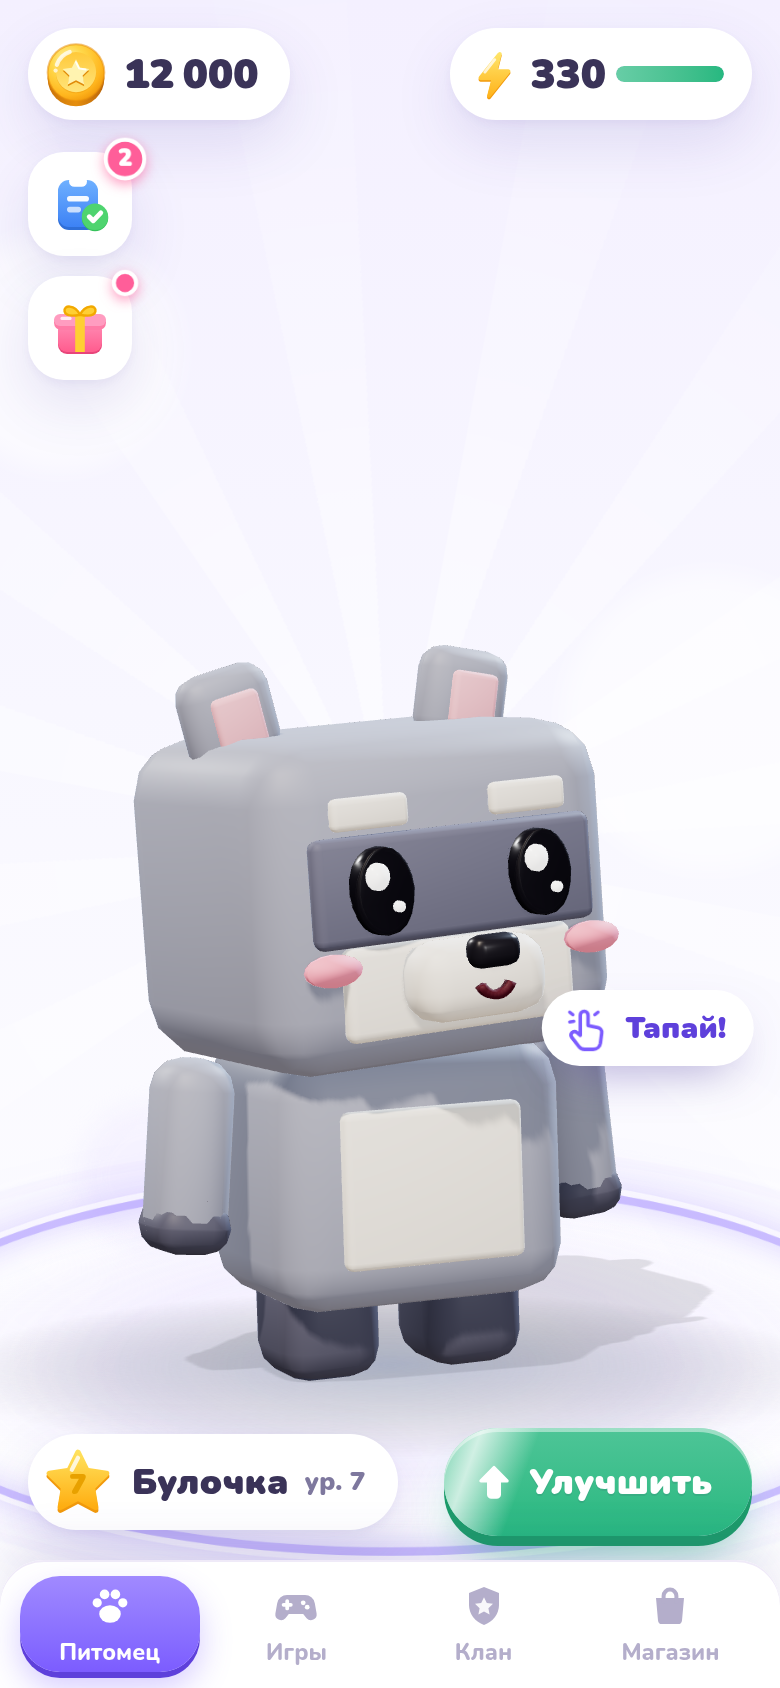
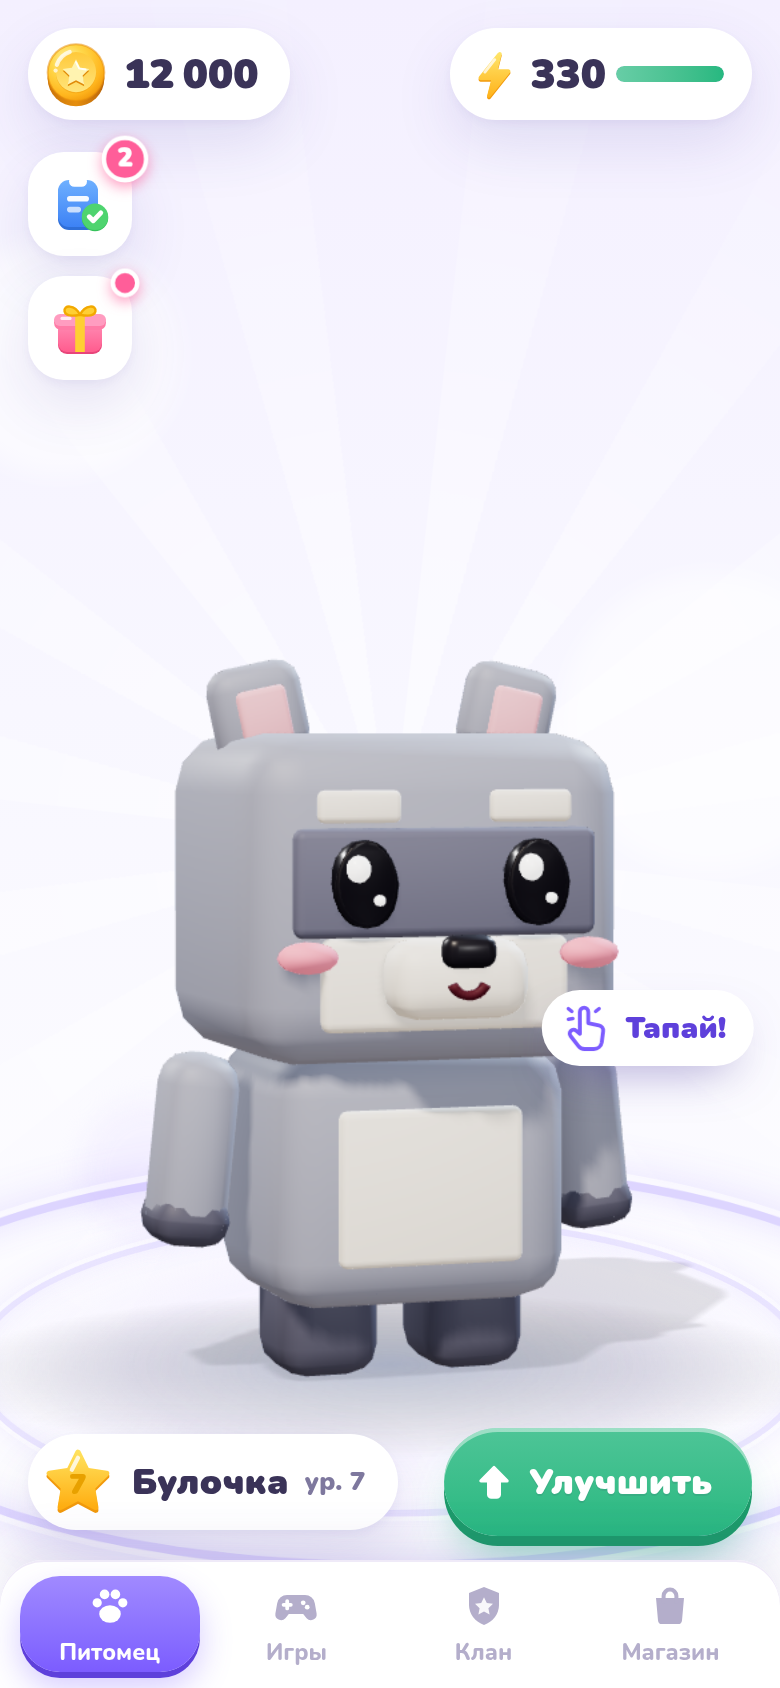
Replace the pet jump and floor ripple with a cheap CSS squash
Freeze the 3D pose, render on demand at a 1.5 DPR cap, and retrigger a single 120ms scale bounce on tap. Coin pool is unchanged.

diff --git a/tapyshi-concept/pet/stage.js b/tapyshi-concept/pet/stage.js
@@ -1,5 +1,5 @@
-// Тапыши v3 · крупный серый енот на прозрачном холсте (фон — CSS)
-import { THREE, makeRenderer, loadRaccoon, blob, shockRing } from './kit.js';
+// Тапыши · енот на холсте. Тап не крутит 3D: только CSS-squash обёртки, рендер по запросу.
+import { THREE, makeRenderer, loadRaccoon, blob } from './kit.js';
 export { THREE };
 export async function petStage({ canvas, f = .48, cy = .5, cx = .5, yaw = .32, hop = .22, onTap, onHover }) {
   const R = makeRenderer(canvas, { exposure: 1.0, alpha: true }); R.setClearColor(0, 0);
@@ -7,17 +7,16 @@ export async function petStage({ canvas, f = .48, cy = .5, cx = .5, yaw = .32, h
   const cam = new THREE.PerspectiveCamera(28, 1, .05, 50);
   scene.add(new THREE.HemisphereLight('#EAF4FF', '#FFF2E6', 1.35));
   const key = new THREE.DirectionalLight('#FFF1DE', 2.5); key.position.set(-1.2, 4.2, 3.6); key.castShadow = true;
-  key.shadow.mapSize.set(1024, 1024); key.shadow.radius = 8; key.shadow.bias = -.0006; key.shadow.normalBias = .02;
+  key.shadow.mapSize.set(512, 512); key.shadow.radius = 6; key.shadow.bias = -.0006; key.shadow.normalBias = .02;
   Object.assign(key.shadow.camera, { left: -1.5, right: 1.5, top: 2, bottom: -1, near: .5, far: 12 }); scene.add(key);
   const rim = new THREE.DirectionalLight('#CFE6FF', 3.2); rim.position.set(2.4, 2.6, -3); scene.add(rim);
   const rim2 = new THREE.DirectionalLight('#FFFFFF', 1.2); rim2.position.set(-2.6, 1.8, -2.4); scene.add(rim2);
   const fill = new THREE.DirectionalLight('#FFFFFF', .6); fill.position.set(2, 1, 3); scene.add(fill);
-  // тень-ловушка на прозрачном «полу»
   const floor = new THREE.Mesh(new THREE.PlaneGeometry(6, 6), new THREE.ShadowMaterial({ opacity: .1 }));
   floor.rotation.x = -Math.PI / 2; floor.receiveShadow = true; scene.add(floor);
   const soft = blob('rgba(50,70,130,.32)', 1.25); soft.position.y = .002; scene.add(soft);
   const pet = await loadRaccoon('models/', { keepMaterials: true });
-  pet.root.rotation.y = yaw; pet.hopH = hop; scene.add(pet.root);
+  pet.root.rotation.y = yaw; pet.hopH = hop; pet.rest(); scene.add(pet.root);
   pet.hit.scale.set(1.35, 1.25, 1.5);
   function place() {
     const w = canvas.clientWidth, h = canvas.clientHeight, a = w / h;
@@ -26,21 +25,53 @@ export async function petStage({ canvas, f = .48, cy = .5, cx = .5, yaw = .32, h
     cam.position.set(lx, ly + .16, d); cam.lookAt(lx, ly, 0);
     R.setSize(w, h, false); cam.aspect = a; cam.updateProjectionMatrix();
   }
-  place(); addEventListener('resize', place);
+  place();
   const v = new THREE.Vector3();
   const toScreen = (x, y, z) => { v.set(x, y, z).project(cam); const r = canvas.getBoundingClientRect(); return { x: r.left + (v.x * .5 + .5) * r.width, y: r.top + (-v.y * .5 + .5) * r.height }; };
   const headTop = () => toScreen(0, 1.1, 0);
   window.__petScreen = () => toScreen(0, .6, 0);
-  // взгляд за пальцем и тапы
-  const ray = new THREE.Raycaster(), p2 = new THREE.Vector2();
-  function look(e) { const c = toScreen(0, .75, 0); pet.setLook((e.clientX - c.x) / 140, (e.clientY - c.y) / 200); }
-  canvas.addEventListener('pointermove', look);
-  canvas.addEventListener('pointerdown', e => {
-    look(e); const r = canvas.getBoundingClientRect(); p2.set((e.clientX - r.left) / r.width * 2 - 1, -(e.clientY - r.top) / r.height * 2 + 1);
-    ray.setFromCamera(p2, cam);
-    if (ray.intersectObject(pet.hit).length && onTap && onTap(e) !== false) { pet.tap(); shockRing(scene, new THREE.Vector3(0, 0, 0), '#FFFFFF'); }
+
+  const hooks = [];
+  let raf = 0;
+  function draw() {
+    raf = 0;
+    hooks.forEach(h => h(0));
+    R.render(scene, cam);
+  }
+  function requestDraw() {
+    if (!raf) raf = requestAnimationFrame(draw);
+  }
+  // один-два кадра для тени, дальше карта теней заморожена и цикл стоит
+  R.shadowMap.needsUpdate = true;
+  R.render(scene, cam);
+  R.shadowMap.autoUpdate = false;
+  requestDraw();
+
+  addEventListener('resize', () => {
+    place();
+    R.shadowMap.autoUpdate = true;
+    R.shadowMap.needsUpdate = true;
+    requestDraw();
+    requestAnimationFrame(() => { R.shadowMap.autoUpdate = false; });
   });
-  const clock = new THREE.Clock(); const hooks = [];
-  (function frame() { const dt = Math.min(.05, clock.getDelta()); pet.update(dt); hooks.forEach(h => h(dt)); R.render(scene, cam); requestAnimationFrame(frame); })();
-  return { pet, cam, toScreen, headTop, onFrame: h => hooks.push(h) };
+
+  const wrap = canvas.closest('.pet-wrap') || canvas;
+  function bounce() {
+    wrap.classList.remove('is-bounce');
+    void wrap.offsetWidth;
+    wrap.classList.add('is-bounce');
+  }
+  wrap.addEventListener('animationend', e => {
+    if (e.animationName === 'pet-bounce') wrap.classList.remove('is-bounce');
+  });
+
+  const ray = new THREE.Raycaster(), p2 = new THREE.Vector2();
+  canvas.addEventListener('pointerdown', e => {
+    const r = canvas.getBoundingClientRect();
+    p2.set((e.clientX - r.left) / r.width * 2 - 1, -(e.clientY - r.top) / r.height * 2 + 1);
+    ray.setFromCamera(p2, cam);
+    if (ray.intersectObject(pet.hit).length && onTap && onTap(e) !== false) bounce();
+  });
+
+  return { pet, cam, toScreen, headTop, requestDraw, onFrame: h => { hooks.push(h); requestDraw(); } };
 }

diff --git a/tapyshi-concept/index.html b/tapyshi-concept/index.html
@@ -56,7 +56,7 @@
     <i class="bokeh" style="right:-40px;top:300px;width:150px;height:150px;background:var(--white);animation-delay:-3s"></i>
     <i class="bokeh" style="left:40px;top:560px;width:70px;height:70px;background:var(--violet-soft);animation-delay:-5s"></i></div>
   <div class="tapring" id="ring"><b></b><i></i><i></i></div>
-  <canvas class="scene"></canvas>
+  <div class="pet-wrap" id="petWrap"><canvas class="scene"></canvas></div>
   <div class="hud">
     <div class="top">
       <div class="pill card pe spring" data-coin-target><svg class="ic"><use href="#i-coin"/></svg><span class="num" data-b="coins">12 000</span></div>
@@ -84,24 +84,30 @@ const canvas = document.querySelector('canvas.scene');
 const st = await petStage({ canvas, f: .42, cy: .58, cx: .5, hop: .16, onTap: e => doTap(e.clientX, e.clientY) });
 const combo = document.getElementById('combo'), cn = document.getElementById('cn'), cm = document.getElementById('cm'), ct = document.getElementById('ct');
 const ring = document.getElementById('ring'), hint = document.getElementById('hint');
-let sc = .6, scT = .6;
+let sc = .6, hx = 0, hy = 205;
+function placeCombo() {
+  combo.style.transform = `translate(${hx}px,${hy}px) translate(-50%,-100%) scale(${sc})`;
+}
+function layoutPetHUD() {
+  const h = st.headTop();
+  hx = h.x; hy = Math.max(h.y - 6, 205); placeCombo();
+  const f = st.toScreen(0, 0, 0), s2 = st.toScreen(.62, 0, 0), w = (s2.x - f.x) * 2.3;
+  ring.style.left = f.x + 'px'; ring.style.top = f.y + 'px'; ring.style.width = w + 'px'; ring.style.height = w * .36 + 'px';
+  const hp = st.toScreen(.62, .55, .2); hint.style.left = Math.max(70, Math.min(innerWidth - 66, hp.x)) + 'px'; hint.style.top = hp.y + 'px';
+}
 on('combo', c => {
   if (!c.active) return;
   combo.classList.remove('out'); combo.classList.add('on'); cn.textContent = c.n;
   const [c1, c2] = comboColor(c.n); combo.style.setProperty('--c1', c1); combo.style.setProperty('--c2', c2);
   combo.style.setProperty('--fs', (44 + Math.min(c.n, 60) * .55) + 'px');
   combo.classList.toggle('hot', c.n >= 10); combo.classList.toggle('m', c.mult > 1); cm.textContent = fmtMult(c.mult);
-  ct.style.transform = 'scaleX(' + c.rem + ')'; scT = 1;
+  ct.style.transform = 'scaleX(' + c.rem + ')'; sc = 1;
+  placeCombo();
   if (c.tap) { combo.classList.remove('kick'); void combo.offsetWidth; combo.classList.add('kick'); }
 });
-on('end', () => { combo.classList.add('out'); combo.classList.remove('on'); scT = .6; });
-st.onFrame(() => {
-  const h = st.headTop(); sc += (scT - sc) * .2;
-  combo.style.transform = `translate(${h.x}px,${Math.max(h.y - 6, 205)}px) translate(-50%,-100%) scale(${sc})`;
-  const f = st.toScreen(0, 0, 0), s2 = st.toScreen(.62, 0, 0), w = (s2.x - f.x) * 2.3;
-  ring.style.left = f.x + 'px'; ring.style.top = f.y + 'px'; ring.style.width = w + 'px'; ring.style.height = w * .36 + 'px';
-  const hp = st.toScreen(.62, .55, .2); hint.style.left = Math.max(70, Math.min(innerWidth - 66, hp.x)) + 'px'; hint.style.top = hp.y + 'px';
-});
+on('end', () => { combo.classList.add('out'); combo.classList.remove('on'); sc = .6; placeCombo(); });
+layoutPetHUD();
+addEventListener('resize', layoutPetHUD);
 document.documentElement.dataset.ready = '1';
 </script>
 </body></html>

diff --git a/tapyshi-concept/pet/kit.js b/tapyshi-concept/pet/kit.js
@@ -9,7 +9,7 @@ export const C = (hex) => new THREE.Color(hex);
 // ---------- рендер ----------
 export function makeRenderer(canvas, { exposure = 1.0, shadows = true, alpha = false } = {}) {
   const r = new THREE.WebGLRenderer({ canvas, antialias: true, alpha, powerPreference: 'high-performance' });
-  r.setPixelRatio(Math.min(2, window.devicePixelRatio || 1));
+  r.setPixelRatio(Math.min(1.5, window.devicePixelRatio || 1));
   r.outputColorSpace = THREE.SRGBColorSpace;
   r.toneMapping = THREE.ACESFilmicToneMapping;
   r.toneMappingExposure = exposure;
@@ -178,6 +178,18 @@ export class Pet {
   }
   setLook(nx, ny) { this.look.tx = THREE.MathUtils.clamp(nx, -1, 1); this.look.ty = THREE.MathUtils.clamp(ny, -1, 1); this.lookAt = this.t; }
   tap() { this.tapT = this.t; this.happyUntil = this.t + .75; }
+  rest() {
+    this.squash.scale.set(1, 1, 1);
+    this.squash.rotation.set(0, 0, 0);
+    this.hop.position.y = 0;
+    this.hop.rotation.set(0, 0, 0);
+    this.models.neutral.visible = true;
+    this.models.happy.visible = false;
+    for (const m of Object.values(this.models)) {
+      const p = m.userData.parts || {};
+      for (const part of Object.values(p)) part.o.rotation.copy(part.r);
+    }
+  }
   update(dt) {
     const t = (this.t += dt);
     const happy = t < this.happyUntil;

diff --git a/tapyshi-concept/pet/tap.css b/tapyshi-concept/pet/tap.css
@@ -13,7 +13,10 @@ svg.ic{display:block;flex:none}
 @keyframes spin{to{transform:rotate(360deg)}}
 .bokeh{position:absolute;border-radius:50%;filter:blur(6px);opacity:.55;animation:drift 9s ease-in-out infinite}
 @keyframes drift{50%{transform:translateY(-14px)}}
-canvas.scene{position:absolute;inset:0;width:100%;height:100%;display:block;touch-action:manipulation;z-index:2}
+.pet-wrap{position:absolute;inset:0;z-index:2;pointer-events:none;transform-origin:50% 68%}
+.pet-wrap.is-bounce{animation:pet-bounce .12s ease-out}
+@keyframes pet-bounce{0%{transform:scale(1,1)}35%{transform:scale(1.14,.84)}70%{transform:scale(.95,1.08)}100%{transform:scale(1,1)}}
+canvas.scene{position:absolute;inset:0;width:100%;height:100%;display:block;touch-action:manipulation;pointer-events:auto}
 .hud{position:absolute;inset:0;pointer-events:none;z-index:5}
 .hud .pe{pointer-events:auto}
 .spring{transition:transform .38s var(--spring)}
